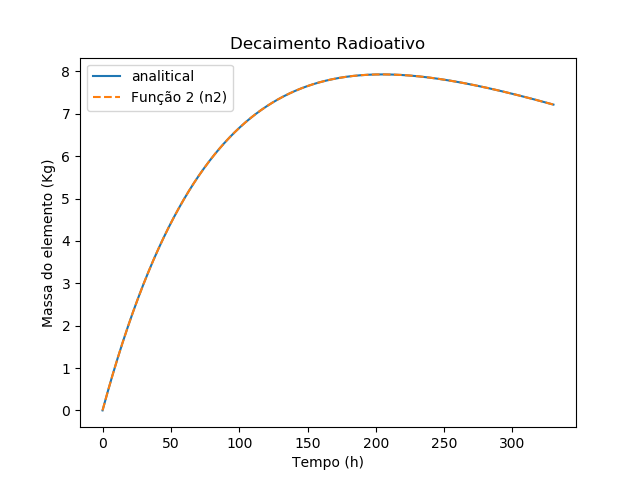
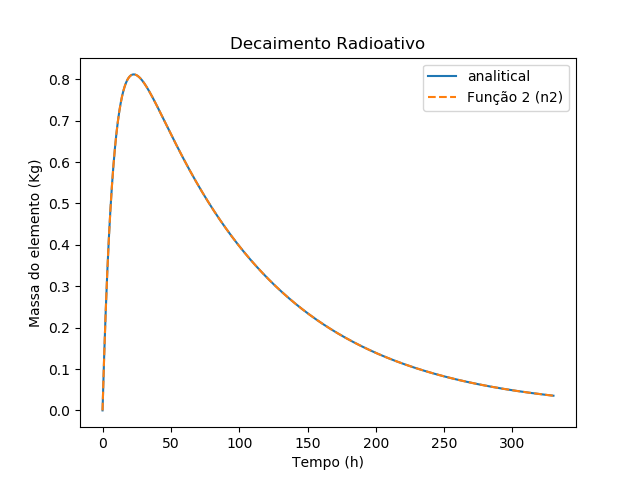
fix: lambda 2

diff --git a/app.py b/app.py
@@ -7,7 +7,7 @@ import matplotlib.pyplot as plt
 # definindo lambda1 = 2 e lamda2 = 4
 
 lamb_one = 0.0105
-lamb_two = 1.7503 * (10 ** (-3))
+lamb_two = 0.1155
 
 delta_t = 0.001
 final_interval_t = 330
@@ -88,7 +88,7 @@ plt.savefig("decaimento-radioativo-comparação-erro.png", dpi=100)
 plt.show()
 
 
-delta_t_2 = delta_t * 10000
+delta_t_2 = delta_t * 1000
 steps_2 = np.arange(0, final_interval_t + delta_t_2, delta_t_2)
 euler_2 = euler_method(f0_one, f0_two, delta_t_2,
                        steps_2, f_line_one, f_line_two)
